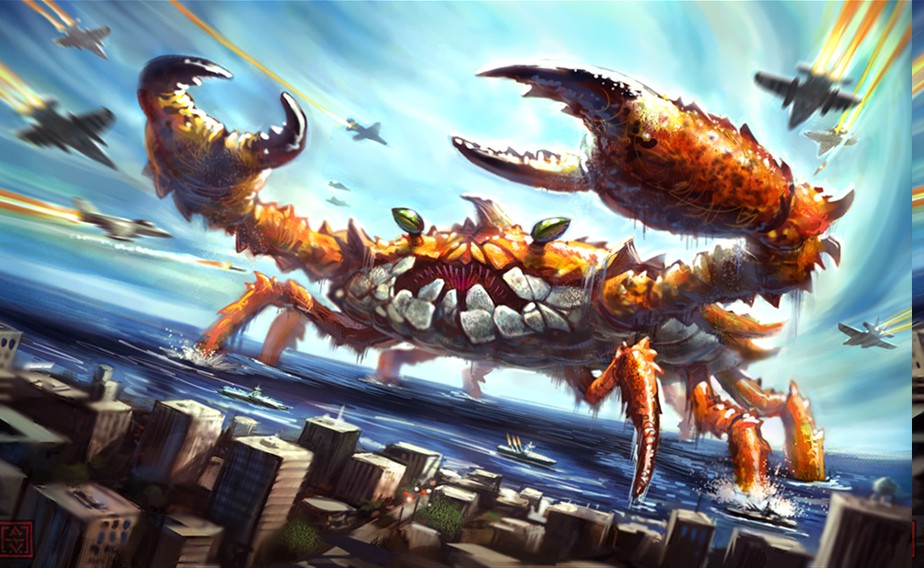
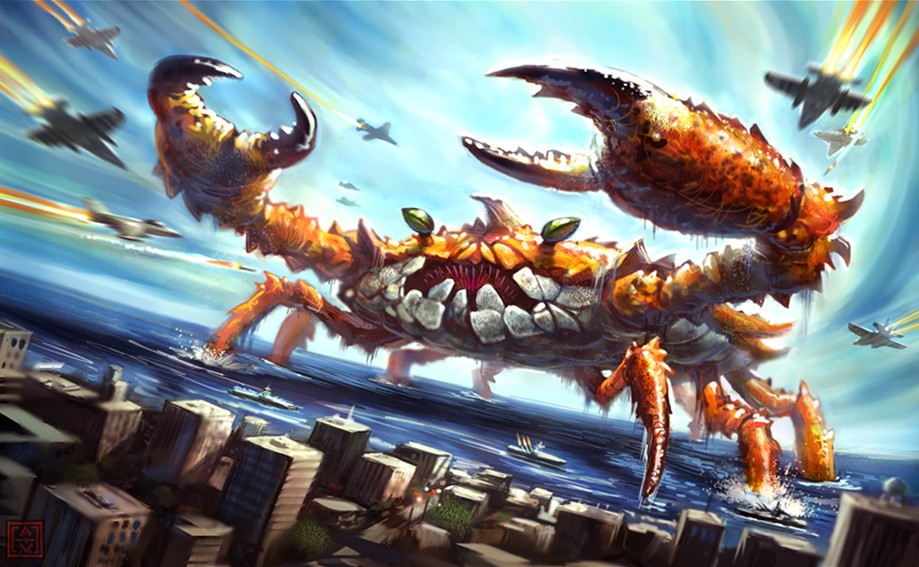
resize some stuff

diff --git a/site/index.html b/site/index.html
@@ -1,40 +1,59 @@
 <html>
 <head>
+  <title>Semantle Crab</title>
 <script src="solve.js" defer></script>
 <style>
-    #things {
-      align-items: center;
-      margin-left: 35%;
-      display: block;
-      width: 600px;
-      height: 100%;
-    }
-    #bg {
-      background-image: linear-gradient(rgba(255,255,255,0.9),
-         rgba(255,255,255,0.9)), url("giant_enemy_crab_crop.jpg");
-      padding: 25px;
-      background-repeat: no-repeat;
-      background-size: 100%;
-      height: 100%;
-    }
-    .inputNums {
-        text-align: center;
-    }
-    .button {
-        width: 50%;  
-        height: 2.5em;
-    }
+  #things {
+    align-items: center;
+    margin-left: 30%;
+    display: block;
+    width: 300px;
+    height: 100%;
+  }
+  #bg {
+    background-image: linear-gradient(rgba(255,255,255,0.8),
+      rgba(255,255,255,0.8)), url("giant_enemy_crab_crop.jpg");
+    -webkit-background-size: cover;
+    -moz-background-size: cover;
+    -o-background-size: cover;
+    background-size: cover;
+    background-origin: border-box;
+    font-size:20px;
+    margin: 0px;
+    padding:0px;
+    border:0.1px;
+  }
+  #formtable {
+    min-width: 200px; 
+    text-align: center;
+    font-size:20px;
+  }
+  .inputNums {
+      text-align: center;
+  }
+  .button {
+      width: 50%;  
+      height: 2.5em;
+  }
+  html {
+   margin: 0px;
+   height: 100%;
+   width: 100%;
+  }
+  body {
+    margin: 0px;
+    min-height: 100%;
+    width: 100%;
+    border: solid red 5px;
+    border-radius: 2em;
+  }
 </style>
 <link rel="icon" type="image/x-icon" href="favicon.ico?v=2"  />
 </head>
-<body>
-<div id="bg">
+<body id="bg">
 <div id="things">
     <div id="instructions">
-        <h2><p>Semantle Solver</p></h2>
-        <h4><p>Giant Enemy Crab Edition</h4>
-        <p>Instructions:</p>
-        <ol>
+        <ul>
         <li>Open <a href="https://semantle.novalis.org/">Semantle</a> or <a href="https://semantle.pimanrul.es/">Pimantle</a></li>
         <li>Guess <b>giant</b></li>
         <li>Guess <b>enemy</b></li>
@@ -42,13 +61,12 @@
         <li>Put scores in boxes</li>
         <li>Press button</li>
         <li>Win</li>
-        </ol>
+        </ul>
     </div>
     <div id="weakpoint">
         <br />
-        <br />
         <form id="guessform">
-        <table style="min-width: 200px; text-align: center;">
+        <table id="formtable">
             <tr><th>Word</th><th>Score</th></th>
             <tr><td>giant</td><td><input type="text" id="giant" size=5 class="inputNums" /></td></tr>
             <tr><td>enemy</td><td><input type="text" id="enemy" size=5 class="inputNums" /></td></tr>
@@ -67,10 +85,7 @@
     </div>
     <div id="credits">
         <br />
-        <br />
-        <p>git repo: <a href="https://github.com/manimino/semantle-solver">manimino/semantle-solver</a></p>
-        <p>image credit: <a href='https://www.deviantart.com/vegasmike'>VegasMike</a></p>
+        <p><a href="https://github.com/manimino/semantle-crab">Code</a> | <a href='https://www.deviantart.com/vegasmike'>image credit</a></p>
     </div>
-</div>
 </div>
 </html>
